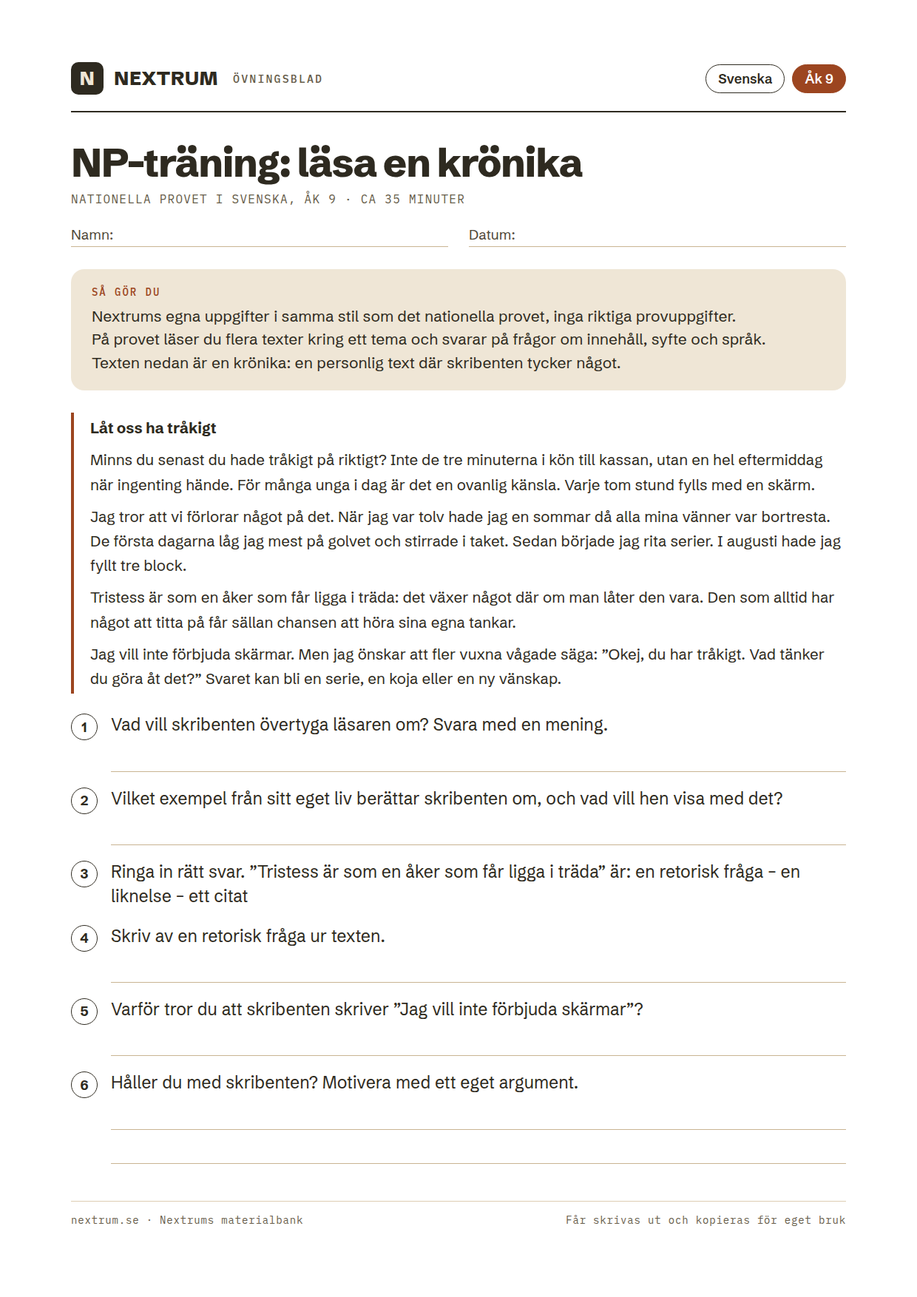
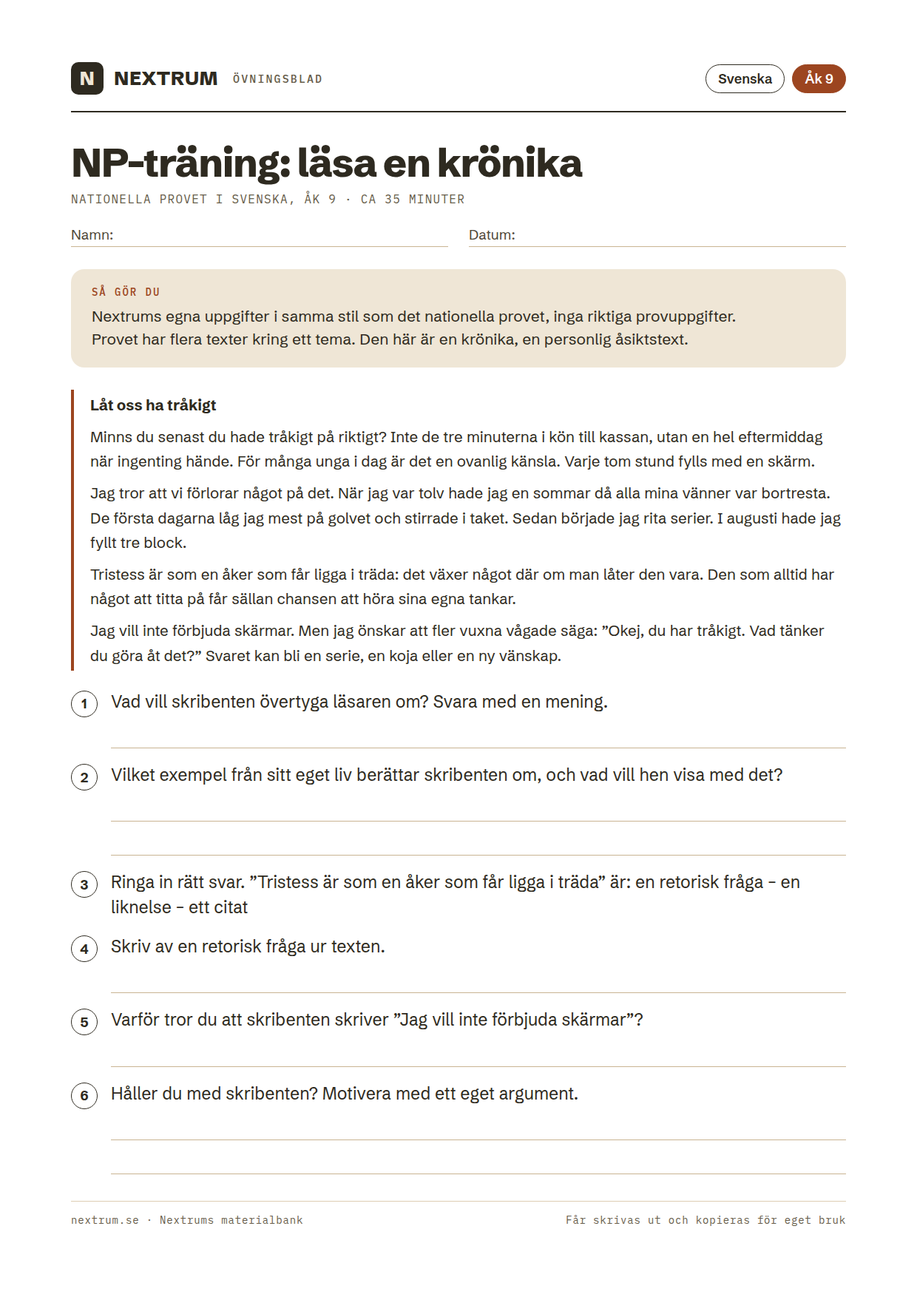
Fas 15.7: granskningen rättar NP-träningen
Ingen granskare hittade fel facit. Rättat:

- Påståenden om proven: formelbladet får användas på alla delar i
  matematik nivå 1 och 2, skrivdelen i svenska åk 6 är två texter
  (berättelse och faktatext), och i engelska åk 9 skriver man en text
  utifrån en uppgift med inspiration, inte genom att välja ämne.
- Svarsplats: en bred svarsruta, [[]], för längre svar (x(x − 6),
  4a − 3, 19.20), utveckling av kvadrater på egen rad, och fler
  skrivrader där en fråga har två led eller ber om ett stycke.
- Otydligt: cyklisterna startar samtidigt, förändringsfaktorn gäller
  per år. Två nivåmärken sänks från A till C.
- Språk: svenska citattecken, fler insekter, idiomatisk engelska, och
  flervalsfrågor och läsfrågor som kräver att man läst texten.
- Den påhittade dagboken från våren 1945 stämmer med att beskedet om
  freden kom på eftermiddagen.
- Titlar som bröts på två rader kortas, så att skrivraderna får plats.

Inga andra bilder än NP-bladens ändras. Migrationen är omskriven efter
de nya titlarna.

Claude-Session: https://claude.ai/code/session_011LBvXSaptKobfKq6P5G3d3

Changed region(s): [[0.0613, 0.2463, 0.9194, 0.7389], [0.0613, 0.7697, 0.7048, 0.8005], [0.0613, 0.8312, 0.6435, 0.862]]

diff --git a/verktyg/bladen/gymnasiet.py b/verktyg/bladen/gymnasiet.py
@@ -328,12 +328,12 @@ BLAD = [
     # Egna uppgifter i samma stil som de nationella proven, aldrig provens egna. Med Gy25 finns prov i
     # matematik nivå 1 och 2, svenska nivå 1 och 3 och engelska nivå 1 och 2.
     dict(fil='gy1-np-matematik-niva-1-utan-digitala-verktyg', arskurs='gy1', amne='Matematik',
-         titel='NP-träning: matematik nivå 1 utan digitala verktyg', omrade='Nationella provet i matematik nivå 1', tid='40 minuter',
+         titel='NP-träning: matematik 1 utan räknare', omrade='Nationella provet i matematik nivå 1', tid='40 minuter',
          instruktion=['Nextrums egna uppgifter i samma stil som det nationella provet, inga riktiga provuppgifter.',
-                      'Provet har delar utan digitala verktyg, där du skriver svaret eller redovisar kort, och delar med räknare och formelblad. Det här bladet är utan.',
+                      'Provet har delar utan digitala verktyg, där du skriver svaret eller redovisar kort, och delar med digitala verktyg. Formelbladet får användas på alla delar. Det här bladet är utan digitala verktyg.',
                       'Märket efter uppgiften visar vilken nivå den tränar: E, C eller A.'],
-         uppgifter=[('a) 2,4 · 0,5 = []    b) Skriv 0,035 i procentform: [] {E}', 0),
-                    ('Förenkla (2x + 3) − (x − 4). [] {E}', 0),
+         uppgifter=[('a) 2,4 · 0,5 = []    b) Skriv 0,035 i procentform: [[]] {E}', 0),
+                    ('Förenkla (2x + 3) − (x − 4). [[]] {E}', 0),
                     ('Lös ekvationen 3(x − 2) = 12. x = [] {E}', 0),
                     ('Beräkna 10⁻² · 10⁵. [] {E}', 0),
                     ('Bestäm f(−2) om f(x) = 3x² − 1. [] {C}', 0),
@@ -346,7 +346,7 @@ BLAD = [
          beskrivning='Träning inför nationella provet i matematik nivå 1 utan digitala verktyg: räkning, algebra, funktioner och procent på nivåerna E, C och A.'),
 
     dict(fil='gy1-np-matematik-niva-1-med-digitala-verktyg', arskurs='gy1', amne='Matematik',
-         titel='NP-träning: matematik nivå 1 med digitala verktyg', omrade='Nationella provet i matematik nivå 1', tid='45 minuter',
+         titel='NP-träning: matematik 1 med räknare', omrade='Nationella provet i matematik nivå 1', tid='45 minuter',
          instruktion=['Nextrums egna uppgifter i samma stil som det nationella provet, inga riktiga provuppgifter.',
                       'Redovisa dina lösningar så att någon annan kan följa dem. Du får använda räknare.',
                       'Märket efter uppgiften visar vilken nivå den tränar: E, C eller A.'],
@@ -357,14 +357,13 @@ BLAD = [
                      tabell(['Tid (min)', '5', '10', '20', '30'], [['Sträcka (km)', '1,2', '2,4', '4,8', '7,2']], bredd_kol=90)),
                     ('En klass säljer kakor. De har fasta kostnader på 450 kr, varje kaka kostar 4 kr att baka och säljs för 15 kr. '
                      'Hur många kakor måste de sälja för att gå med vinst? {C}', 2),
-                    ('Lös ekvationen 1,05ˣ = 2 grafiskt eller genom att pröva. Tolka svaret om 1,05 är förändringsfaktorn för pengar på ett sparkonto. {A}', 2)],
+                    ('Lös ekvationen 1,05ˣ = 2 grafiskt eller genom att pröva. Tolka svaret om 1,05 är förändringsfaktorn per år för pengar på ett sparkonto. {A}', 2)],
          beskrivning='Träning inför nationella provet i matematik nivå 1 med digitala verktyg: förändringsfaktor, volym, procentenheter, proportionalitet och modellering.'),
 
     dict(fil='gy1-np-svenska-niva-1-lasforstaelse', arskurs='gy1', amne='Svenska',
-         titel='NP-träning: läsförståelse i svenska nivå 1', omrade='Nationella provet i svenska nivå 1', tid='40 minuter',
+         titel='NP-träning: läsförståelse, svenska 1', omrade='Nationella provet i svenska nivå 1', tid='40 minuter',
          instruktion=['Nextrums egna uppgifter i samma stil som det nationella provet, inga riktiga provuppgifter.',
-                      'Provet i svenska nivå 1 har en del i läsförståelse där du läser sakprosa och skönlitteratur och svarar på frågor om innehåll, syfte och språk.',
-                      'Stöd dina svar på texten.'],
+                      'På provets läsdel svarar du på frågor om innehåll, syfte och språk. Stöd svaren på texten.'],
          text=['# Varför lånar svenskan ord?',
                'Svenskan har alltid lånat ord från andra språk. Under medeltiden kom många ord från lågtyskan, eftersom tyska '
                'köpmän i Hansan handlade i svenska städer. Ord som fönster, handla och borgmästare är exempel på sådana lån. På '
@@ -377,15 +376,15 @@ BLAD = [
                'och näringsliv. Andra ser lånen som ett tecken på att språket lever och förändras. Språkforskare brukar påpeka att '
                'svenskan har tagit emot lån i över tusen år och ändå fortfarande är svenska.'],
          uppgifter=[('Varför kom många lågtyska ord in i svenskan under medeltiden?', 1),
-                    ('Vilket språk har varit den största källan till lånord under 1900-talet och fram till i dag? ___', 0),
-                    ('Förklara med egna ord vad som händer med ett lånord när det anpassas till svenskan. Ge ett eget exempel.', 1),
-                    ('Ringa in det som bäst beskriver textens syfte: att underhålla – att informera – att sälja något', 0),
+                    ('Vilket språk har gett flest lånord sedan 1900-talet? ___', 0),
+                    ('Förklara med egna ord vad som händer med ett lånord när det anpassas till svenskan. Ge ett eget exempel.', 2),
+                    ('Ringa in det som bäst beskriver textens syfte:\ninformera om hur svenskan lånar ord – argumentera mot engelska lånord – varna för att svenskan försvinner', 0),
                     ('Vilka två synsätt på engelska lånord beskrivs i texten?', 1),
                     ('Vad menar språkforskarna med att svenskan ”ändå fortfarande är svenska”?', 1)],
          beskrivning='Träning inför nationella provets läsdel i svenska nivå 1: en sakprosatext om lånord med frågor om innehåll, syfte och perspektiv.'),
 
     dict(fil='gy1-np-svenska-niva-1-skriva', arskurs='gy1', amne='Svenska',
-         titel='NP-träning: argumenterande text i svenska nivå 1', omrade='Nationella provet i svenska nivå 1', tid='50 minuter',
+         titel='NP-träning: argumentera, svenska 1', omrade='Nationella provet i svenska nivå 1', tid='50 minuter',
          instruktion=['Nextrums egna uppgifter i samma stil som det nationella provet, inga riktiga provuppgifter.',
                       'På provets skrivdel skriver du utifrån ett texthäfte. Hänvisa till källorna så att läsaren förstår vem som säger vad, '
                       'till exempel ”I en ledare i ... skriver ...”.',
@@ -405,7 +404,7 @@ BLAD = [
     dict(fil='gy1-np-engelska-niva-1-reading', arskurs='gy1', amne='Engelska',
          titel='NP-träning: reading, engelska nivå 1', omrade='Nationella provet i engelska nivå 1', tid='40 minuter',
          instruktion=['Nextrums egna uppgifter i samma stil som det nationella provet, inga riktiga provuppgifter.',
-                      "In the reading part you read different kinds of texts and answer questions about main ideas, details and the writer's attitude. Answer in English, in full sentences."],
+                      "In the reading part you answer questions about main ideas, details and the writer's attitude. Use full sentences, except where you are asked for one word."],
          text=['# Science in your back garden',
                'Every winter, hundreds of thousands of people across the UK spend one hour looking out of their windows. They are '
                'not bored; they are doing science. The Big Garden Birdwatch, organised by the bird charity RSPB since 1979, asks '
@@ -437,12 +436,13 @@ BLAD = [
          beskrivning='Träning inför nationella provets skrivdel i engelska nivå 1: planera och skriva en argumenterande text om volontärarbete.'),
 
     dict(fil='gy2-np-matematik-niva-2-utan-digitala-verktyg', arskurs='gy2', amne='Matematik',
-         titel='NP-träning: matematik nivå 2 utan digitala verktyg', omrade='Nationella provet i matematik nivå 2', tid='40 minuter',
+         titel='NP-träning: matematik 2 utan räknare', omrade='Nationella provet i matematik nivå 2', tid='40 minuter',
          instruktion=['Nextrums egna uppgifter i samma stil som det nationella provet, inga riktiga provuppgifter.',
-                      'Provet har delar utan digitala verktyg och delar med räknare och formelblad. Det här bladet är utan.',
+                      'Provet har delar utan och med digitala verktyg, och formelbladet får användas på alla delar. Det här bladet är utan digitala verktyg.',
                       'Märket efter uppgiften visar vilken nivå den tränar: E, C eller A.'],
-         uppgifter=[('a) Lös x² − 9 = 0: []    b) Utveckla (x + 5)²: [] {E}', 0),
-                    ('Faktorisera x² − 6x. [] {E}', 0),
+         uppgifter=[('Lös ekvationen x² − 9 = 0. x = [[]] {E}', 0),
+                    ('Utveckla (x + 5)². {E}', 1),
+                    ('Faktorisera x² − 6x. [[]] {E}', 0),
                     ('Beräkna lg 1000 + lg 0,1. [] {E}', 0),
                     ('Lös ekvationen x² + 2x − 8 = 0. {E}', 1),
                     ('Lös ekvationssystemet y = 2x − 1 och y = −x + 5. {E}', 1),
@@ -452,7 +452,7 @@ BLAD = [
          beskrivning='Träning inför nationella provet i matematik nivå 2 utan digitala verktyg: andragradsekvationer, kvadreringsregler, logaritmer, ekvationssystem och bevis.'),
 
     dict(fil='gy2-np-matematik-niva-2-med-digitala-verktyg', arskurs='gy2', amne='Matematik',
-         titel='NP-träning: matematik nivå 2 med digitala verktyg', omrade='Nationella provet i matematik nivå 2', tid='45 minuter',
+         titel='NP-träning: matematik 2 med räknare', omrade='Nationella provet i matematik nivå 2', tid='45 minuter',
          instruktion=['Nextrums egna uppgifter i samma stil som det nationella provet, inga riktiga provuppgifter.',
                       'Redovisa dina lösningar så att någon annan kan följa dem. Du får använda räknare.',
                       'Märket efter uppgiften visar vilken nivå den tränar: E, C eller A.'],
@@ -469,25 +469,22 @@ BLAD = [
     dict(fil='gy2-np-engelska-niva-2-reading', arskurs='gy2', amne='Engelska',
          titel='NP-träning: reading, engelska nivå 2', omrade='Nationella provet i engelska nivå 2', tid='40 minuter',
          instruktion=['Nextrums egna uppgifter i samma stil som det nationella provet, inga riktiga provuppgifter.',
-                      'In the reading part you show that you understand both what a text says and how it says it: main ideas, details, tone and structure.',
-                      'Answer in English, in full sentences.'],
+                      'Show that you understand what the text says and how. Use full sentences, except for one-word answers.'],
          text=['# Tomorrow, I promise',
                'Almost everyone knows the feeling. An essay is due on Friday, and on Thursday evening you find yourself reorganising '
-               'your bookshelf, watching videos about bridge construction, or suddenly deciding that your room needs a deep clean. '
+               'your bookshelf or suddenly deciding that your room needs a deep clean. '
                'You are not lazy: you are procrastinating.',
-               'For a long time, procrastination was seen as a problem of time management. If people only planned better, the '
-               'thinking went, they would get things done. Many psychologists now describe it differently. Procrastination, they '
+               'For a long time, procrastination was seen as a problem of time management. Many psychologists now describe it differently. Procrastination, they '
                'argue, is mainly about managing feelings. We put off tasks that make us feel bored, anxious or insecure, and reach '
                'for something that makes us feel better right now. The relief is real, but short-lived; the task, and the stress, are still waiting.',
-               'This explains why buying a new planner rarely helps. More useful strategies target the feeling itself: breaking a task '
-               'into steps so small that they seem almost silly, starting with just five minutes, or forgiving yourself for last time '
-               'instead of adding guilt to the pile.',
+               'This explains why buying a new planner rarely helps. More useful strategies target the feeling itself, for example '
+               'breaking a task into tiny steps or starting with just five minutes.',
                'None of this means that every delay is harmful. Letting an idea rest can improve it. The problem begins when putting '
                'things off becomes a habit that costs us sleep, grades or peace of mind.'],
-         uppgifter=[('How was procrastination explained in the past, and how do many psychologists explain it now?', 1),
+         uppgifter=[('How was procrastination explained in the past, and how do many psychologists explain it now?', 2),
                     ('Why, according to the writer, does buying a new planner rarely help?', 1),
                     ('What does the word "short-lived" mean? ___', 0),
-                    ('How does the final paragraph change the perspective of the text?', 1),
+                    ('How does the final paragraph change the perspective of the text?', 2),
                     ('Describe the tone of the first paragraph and give an example that supports your answer.', 1)],
          beskrivning='Träning inför nationella provets läsdel i engelska nivå 2: en essä om att skjuta upp saker, med frågor om innehåll, ton och struktur.'),
 
@@ -504,7 +501,7 @@ BLAD = [
          beskrivning='Träning inför nationella provets skrivdel i engelska nivå 2: en diskuterande text om ett kontantlöst samhälle.'),
 
     dict(fil='gy3-np-svenska-niva-3-utredande-text', arskurs='gy3', amne='Svenska',
-         titel='NP-träning: utredande text i svenska nivå 3', omrade='Nationella provet i svenska kurs 3 och nivå 3', tid='60 minuter',
+         titel='NP-träning: utredande text, svenska 3', omrade='Nationella provet i svenska kurs 3 och nivå 3', tid='60 minuter',
          instruktion=['Nextrums egna uppgifter i samma stil som det nationella provet, inga riktiga provuppgifter.',
                       'På provet skriver du en utredande text utifrån ett texthäfte: du ställer en fråga, redogör för olika perspektiv '
                       'med korrekt källhänvisning och drar en egen slutsats.',
@@ -518,7 +515,7 @@ BLAD = [
                     ('Sammanfatta vad källa 1 säger, med egna ord och med hänvisning till källan.', 2),
                     ('Sammanfatta vad källa 2 säger på samma sätt.', 2),
                     ('Jämför källorna: på vilket sätt är de oense, och kan båda ha rätt?', 2),
-                    ('Skriv en slutsats som svarar på din frågeställning.', 1),
+                    ('Skriv en slutsats som svarar på din frågeställning.', 3),
                     ('Skriv hela texten med inledning, avhandling och avslutning på ett eget papper eller på datorn.', 0)],
          beskrivning='Träning inför nationella provets skrivdel i svenska nivå 3: utredande text utifrån två källor, med frågeställning, källhänvisning och slutsats.'),
 ]

diff --git a/verktyg/bladen/hogstadiet.py b/verktyg/bladen/hogstadiet.py
@@ -390,10 +390,10 @@ BLAD = [
                     ('4² − 3 · 2 = [] {E}', 0), ('Hur mycket är 20 % av 450? [] {E}', 0),
                     ('Lös ekvationen 5x + 4 = 29. x = [] {E}', 0),
                     ('Uppskatta 39,8 · 5,1 med huvudräkning. Förklara hur du gjorde. {E}', 1),
-                    ('Förenkla 3(2a − 1) − 2a. [] {C}', 0),
-                    ('Vilket tal är störst, 0,07 · 10³ eller 7 · 10⁻¹? [] {C}', 0),
+                    ('Förenkla 3(2a − 1) − 2a. [[]] {C}', 0),
+                    ('Vilket tal är störst, 0,07 · 10³ eller 7 · 10⁻¹? [[]] {C}', 0),
                     ('En rät linje går genom punkterna (0, −2) och (3, 4). Vilken lutning har linjen? [] {C}', 0),
-                    ('För vilka heltal x från 0 till 10 är 2x − 3 större än 7? {A}', 1),
+                    ('För vilka heltal x från 0 till 10 är 2x − 3 större än 7? {C}', 1),
                     ('Visa att summan av tre heltal som följer på varandra alltid är delbar med 3. {A}', 2)],
          beskrivning='Träning inför nationella provet i matematik åk 9, utan miniräknare: räkning, algebra, funktioner och bevis på nivåerna E, C och A.'),
 
@@ -408,17 +408,16 @@ BLAD = [
                     ('Ett rätvinkligt segel har kateterna 3,0 m och 4,5 m. Hur lång är den längsta sidan? {C}', 1),
                     ('Sannolikheten för regn är 0,3 på lördag och 0,4 på söndag, och dagarna påverkar inte varandra. '
                      'Hur stor är sannolikheten att det regnar båda dagarna? {C}', 1),
-                    ('Hur stor är sannolikheten att det inte regnar någon av dagarna? {A}', 1),
+                    ('Hur stor är sannolikheten att det inte regnar någon av dagarna? {C}', 1),
                     ('En kommun har 24 000 invånare och ökar med 1,5 % per år. Hur många invånare har den efter 10 år om ökningen fortsätter? {A}', 1),
                     ('Elin och Max cyklar mot varandra från två orter som ligger 27 km isär. Elin cyklar 15 km/h och Max 12 km/h. '
-                     'Efter hur lång tid möts de? {A}', 2)],
+                     'De startar samtidigt. Efter hur lång tid möts de? {A}', 2)],
          beskrivning='Träning inför nationella provet i matematik åk 9 med miniräknare: procent, proportionalitet, Pythagoras sats, sannolikhet och problemlösning.'),
 
     dict(fil='ak9-np-svenska-lasa', arskurs='ak9', amne='Svenska',
          titel='NP-träning: läsa en krönika', omrade='Nationella provet i svenska, åk 9', tid='35 minuter',
          instruktion=['Nextrums egna uppgifter i samma stil som det nationella provet, inga riktiga provuppgifter.',
-                      'På provet läser du flera texter kring ett tema och svarar på frågor om innehåll, syfte och språk.',
-                      'Texten nedan är en krönika: en personlig text där skribenten tycker något.'],
+                      'Provet har flera texter kring ett tema. Den här är en krönika, en personlig åsiktstext.'],
          text=['# Låt oss ha tråkigt',
                'Minns du senast du hade tråkigt på riktigt? Inte de tre minuterna i kön till kassan, utan en hel eftermiddag '
                'när ingenting hände. För många unga i dag är det en ovanlig känsla. Varje tom stund fylls med en skärm.',
@@ -429,7 +428,7 @@ BLAD = [
                'Jag vill inte förbjuda skärmar. Men jag önskar att fler vuxna vågade säga: ”Okej, du har tråkigt. Vad tänker du '
                'göra åt det?” Svaret kan bli en serie, en koja eller en ny vänskap.'],
          uppgifter=[('Vad vill skribenten övertyga läsaren om? Svara med en mening.', 1),
-                    ('Vilket exempel från sitt eget liv berättar skribenten om, och vad vill hen visa med det?', 1),
+                    ('Vilket exempel från sitt eget liv berättar skribenten om, och vad vill hen visa med det?', 2),
                     ('Ringa in rätt svar. ”Tristess är som en åker som får ligga i träda” är: en retorisk fråga – en liknelse – ett citat', 0),
                     ('Skriv av en retorisk fråga ur texten.', 1),
                     ('Varför tror du att skribenten skriver ”Jag vill inte förbjuda skärmar”?', 1),
@@ -437,7 +436,7 @@ BLAD = [
          beskrivning='Träning inför nationella provets läsdel i svenska åk 9: en krönika med frågor om tes, exempel, stilmedel och syfte.'),
 
     dict(fil='ak9-np-svenska-skriva', arskurs='ak9', amne='Svenska',
-         titel='NP-träning: skriva en argumenterande text', omrade='Nationella provet i svenska, åk 9', tid='45 minuter',
+         titel='NP-träning: argumenterande text', omrade='Nationella provet i svenska, åk 9', tid='45 minuter',
          instruktion=['Nextrums egna uppgifter i samma stil som det nationella provet, inga riktiga provuppgifter.',
                       'På provet skriver du utifrån ett tema och ibland ett underlag. Använder du underlaget ska du tala om varifrån '
                       'uppgifterna kommer, till exempel ”Enligt Amir ...”.',
@@ -455,22 +454,21 @@ BLAD = [
     dict(fil='ak9-np-engelska-lasa', arskurs='ak9', amne='Engelska',
          titel='NP-träning: läsa på engelska', omrade='Nationella provet i engelska, åk 9', tid='35 minuter',
          instruktion=['Nextrums egna uppgifter i samma stil som det nationella provet, inga riktiga provuppgifter.',
-                      'På provet läser du texter av olika slag och svarar på frågor om innehåll, detaljer och vad texten antyder.',
-                      'Answer the questions in English.'],
+                      'På provet svarar du på frågor om innehåll, detaljer och vad texten antyder. Answer the questions in English.'],
          text=['# The Library of Things',
-               "When Maya Patel needed a drill to put up a shelf, she didn't buy one. She borrowed it from her local Library of "
+               "When Maya Patel needed a drill to put up a shelf, she didn't buy one. She borrowed one from her local Library of "
                "Things, a small shop in her neighbourhood where people borrow objects instead of books.",
                '"A drill spends most of its life in a drawer," says Tom, one of the volunteers. "It makes more sense to share it." '
                'The library lends everything from tents and sewing machines to board games and party speakers. Members pay a '
                'small fee each time they borrow something.',
                'The idea has spread to many cities in Europe. Supporters say it saves money, reduces waste and helps neighbours '
                'get to know each other. However, not everyone is convinced. Some shop owners worry that they will sell less, and '
-               'some members admit that it can be annoying when the thing you want is already borrowed.'],
+               'some members admit that it can be annoying when the thing you want has already been borrowed.'],
          uppgifter=[('What is a Library of Things?', 1),
-                    ('Name three things you can borrow there. ___, ___, ___', 0),
+                    ('Name two things you can borrow there. ___ and ___', 0),
                     ('Circle the right answer. Members ... pay nothing – pay a small fee each time – buy the things they borrow', 0),
-                    ('Why does Tom think it makes sense to share a drill?', 1),
-                    ('Give two arguments for the idea and one argument against it, according to the text.', 1),
+                    ('What does Tom mean when he says that a drill "spends most of its life in a drawer"?', 1),
+                    ('Give one argument for the idea and one against it, according to the text.', 2),
                     ('What does the word "convinced" mean in the text? ___', 0),
                     ('Would you use a Library of Things? Explain why or why not.', 1)],
          beskrivning='Träning inför nationella provets läsdel i engelska åk 9: en artikel om att låna saker i stället för att köpa.'),
@@ -478,7 +476,7 @@ BLAD = [
     dict(fil='ak9-np-engelska-skriva', arskurs='ak9', amne='Engelska',
          titel='NP-träning: skriva på engelska', omrade='Nationella provet i engelska, åk 9', tid='45 minuter',
          instruktion=['Nextrums egna uppgifter i samma stil som det nationella provet, inga riktiga provuppgifter.',
-                      'På provet väljer du ofta mellan två ämnen. Texten bedöms efter innehåll, struktur och språk: hur tydligt och varierat du skriver.',
+                      'På provet skriver du en sammanhängande text utifrån en uppgift, ofta med inspiration som citat, bilder eller förslag på vad du kan ta upp. Här får du välja mellan två ämnen.',
                       'Useful linking words: first of all, however, for example, because, on the other hand, in conclusion.'],
          uppgifter=[('Välj ett ämne och ringa in det.\nA) A place I would like to visit, and why.\n'
                      'B) Should students be allowed to use their phones during breaks?', 0),
@@ -507,17 +505,17 @@ BLAD = [
     dict(fil='ak9-np-so-kallor-och-samband', arskurs='ak9', amne='SO / Historia / Samhällskunskap',
          titel='NP-träning: SO – källor och samband', omrade='Nationella proven i SO-ämnena, åk 9', tid='40 minuter',
          instruktion=['Nextrums egna uppgifter i samma stil som det nationella provet, inga riktiga provuppgifter.',
-                      'På provet i geografi, historia, religionskunskap eller samhällskunskap använder du begrepp, förklarar orsaker och konsekvenser och granskar källor.',
+                      'På provet i SO-ämnena använder du begrepp, förklarar orsaker och konsekvenser och granskar källor.',
                       'Märket efter uppgiften visar vilken nivå den tränar: E, C eller A.'],
          text=['Påhittad källa för övningen, en dagbokssida som en fjortonårig flicka i Stockholm skulle kunna ha skrivit våren 1945: '
-               '”I dag ringde kyrkklockorna hela förmiddagen. Pappa kom hem från jobbet mitt på dagen och sa att kriget i Europa är slut. '
+               '”I dag på eftermiddagen ringde kyrkklockorna. Pappa kom hem tidigt från jobbet och sa att kriget i Europa är slut. '
                'På Kungsträdgården var det så mycket folk att vi inte kom fram. Mamma grät, fast hon var glad. Jag tänker på kusinerna '
                'i Norge. Nu kanske vi får träffa dem i sommar.”'],
          uppgifter=[('Om källan vore äkta, skulle den då vara en primärkälla eller en sekundärkälla? Motivera. {E}', 1),
                     ('Vad kan en historiker lära sig om våren 1945 av en sådan källa? {E}', 1),
                     ('Vad kan källan inte berätta? Tänk på vem som skrev den. {C}', 1),
                     ('Varför kan två personer som var med om samma händelse beskriva den olika? Ge ett exempel. {A}', 2),
-                    ('Geografi: förklara två orsaker till att allt fler människor i världen flyttar till städer, och en konsekvens det får. {C}', 1),
+                    ('Geografi: förklara en orsak till att allt fler människor i världen flyttar till städer, och en konsekvens det får. {C}', 2),
                     ('Samhällskunskap: vad innebär det att Sverige är en rättsstat? Ge ett exempel. {E}', 1),
                     ('Religionskunskap: ge ett exempel på hur en religion kan påverka människors vardag, till exempel mat, högtider eller klädsel. {E}', 1)],
          beskrivning='Träning inför nationella proven i SO åk 9: källkritik med en påhittad källa, orsaker och konsekvenser, rättsstaten och religion i vardagen.'),

diff --git a/verktyg/bladen/mellanstadiet.py b/verktyg/bladen/mellanstadiet.py
@@ -283,7 +283,7 @@ BLAD = [
                       'Märket efter uppgiften visar vilken nivå den tränar: E, C eller A.'],
          uppgifter=[('a) 305 − 48 = []    b) 6 · 70 = []    c) 0,6 + 0,25 = [] {E}', 0),
                     ('Skriv 3/4 i decimalform. [] {E}', 0), ('Hur mycket är 10 % av 90 kr? [] kr {E}', 0),
-                    ('En film börjar 17.45 och är 1 timme och 35 minuter lång. När slutar den? [] {E}', 0),
+                    ('En film börjar 17.45 och är 1 timme och 35 minuter lång. När slutar den? [[]] {E}', 0),
                     ('Vilket tal ligger mitt emellan 1,4 och 1,8? [] {C}', 0),
                     ('Vilket tal ska stå i rutan? 4 · [] + 3 = 31 {C}', 0),
                     ('Skriv talen i storleksordning, minst först: 0,5; 2/5; 0,45 {C}', 1),
@@ -304,7 +304,7 @@ BLAD = [
                     ('En femte elev läste också under sommaren. Hur många böcker måste hon ha läst för att medelvärdet för alla fem ska bli 5? {C}', 1),
                     ('Saga och Theo delar på 120 kr så att Saga får 30 kr mer än Theo. Hur mycket får var och en? {C}', 2),
                     ('En tröja kostar 250 kr. I en butik sänks priset med 20 %, och i en annan med 45 kr. I vilken butik blir tröjan billigast? Visa hur du vet. {C}', 1),
-                    ('Lisa säger: "Om man gör sidorna i en kvadrat dubbelt så långa blir arean dubbelt så stor." Har hon rätt? Förklara med ett exempel. {A}', 2)],
+                    ('Lisa säger: ”Om man gör sidorna i en kvadrat dubbelt så långa blir arean dubbelt så stor.” Har hon rätt? Förklara med ett exempel. {A}', 2)],
          beskrivning='Träning inför nationella provet i matematik åk 6 med miniräknare: problemlösning, medelvärde, skala och resonemang på nivåerna E, C och A.'),
 
     dict(fil='ak6-np-svenska-lasa', arskurs='ak6', amne='Svenska',
@@ -324,8 +324,8 @@ BLAD = [
          uppgifter=[('Vad äter ladusvalan? ___', 0),
                     ('Var bygger ladusvalan sitt bo på sommaren? ___', 0),
                     ('Varför flyttar ladusvalan söderut på hösten?', 1),
-                    ('Ringa in rätt svar. Ordet "kluven" i texten betyder ungefär: lång – delad i två delar – färgglad', 0),
-                    ('Varför tror du att det finns mer insekter där det finns kor och hästar?', 2),
+                    ('Ringa in rätt svar. Ordet ”kluven” i texten betyder ungefär: lång – delad i två delar – färgglad', 0),
+                    ('Varför tror du att det finns fler insekter där det finns kor och hästar?', 2),
                     ('Texten är en faktatext. Skriv två saker som visar det.', 2),
                     ('Om du fick fråga en fågelforskare en sak om ladusvalan, vad skulle du fråga?', 1)],
          beskrivning='Träning inför nationella provets läsdel i svenska åk 6: en faktatext om ladusvalan med frågor på olika nivåer.'),
@@ -333,9 +333,9 @@ BLAD = [
     dict(fil='ak6-np-svenska-skriva', arskurs='ak6', amne='Svenska',
          titel='NP-träning: skriva en berättelse', omrade='Nationella provet i svenska, åk 6', tid='45 minuter',
          instruktion=['Nextrums egna uppgifter i samma stil som det nationella provet, inga riktiga provuppgifter.',
-                      'På provet skriver du en egen text. Den bedöms efter innehållet, hur den är uppbyggd och hur du använder språket.',
+                      'På provet skriver du två texter, en berättelse och en faktatext. De bedöms efter innehåll, uppbyggnad, språk och skrivregler. Det här bladet tränar berättelsen.',
                       'En berättelse har en början, något som händer och driver handlingen framåt, och ett slut.'],
-         uppgifter=[('Din berättelse ska börja med meningen: "När jag öppnade dörren till vinden förstod jag att något hade hänt." '
+         uppgifter=[('Din berättelse ska börja med meningen: ”När jag öppnade dörren till vinden förstod jag att något hade hänt.” '
                      'Planera först: vem är med, var händer det och vad är problemet?', 3),
                     ('Hur slutar berättelsen? Skriv några stödord.', 1),
                     ('Skriv berättelsen. Fortsätt på ett eget papper om raderna inte räcker.', 8),
@@ -371,7 +371,7 @@ BLAD = [
                       'Användbara fraser: My name is ... I live in ... In my free time I ... My favourite ... is ... What about you?'],
          uppgifter=[('Du har fått en brevvän i England. Skriv ett mejl där du berättar om dig själv, din familj, en fritidsaktivitet och din skola. '
                      'Avsluta med en fråga till brevvännen. Planera först: skriv stödord för varje del.', 3),
-                    ('Skriv mejlet på engelska. Börja med Hi ... och avsluta med en hälsning.', 9),
+                    ('Skriv mejlet på engelska. Börja med Hi ... och avsluta med en hälsning. Fortsätt på ett eget papper om raderna inte räcker.', 11),
                     ('Läs igenom: har du använt and, but och because minst en gång var? Ringa in dem.', 0)],
          beskrivning='Träning inför nationella provets skrivdel i engelska åk 6: planera och skriva ett mejl till en brevvän.'),
 ]

diff --git a/verktyg/bygg-banken.py b/verktyg/bygg-banken.py
@@ -75,7 +75,7 @@ AMNEN = ['Matematik', 'Svenska', 'Engelska', 'NO / Fysik / Kemi / Biologi',
 #   text     (valfri)  en läsetext, str eller lista med stycken, ovanför uppgifterna; ett stycke som börjar med '# ' blir en rubrik
 #   chip     (valfri)  vad ämnesbrickan säger; annars ämnets första del ("NO", "SO")
 # En uppgift är (text, extra) eller (text, extra, figur):
-#   [] blir en svarsruta, ___ en skrivrad i texten, \n en radbrytning (en mening per rad när flera luckor ska fyllas)
+#   [] blir en svarsruta och [[]] en bred svarsruta för ett längre svar, ___ en skrivrad i texten, \n en radbrytning (en mening per rad när flera luckor ska fyllas)
 #   {E}, {C} och {A} blir ett nivåmärke, som på de nationella proven
 #   extra = antal tomma skrivrader under uppgiften, eller 'ruta' för en större ruta att rita i
 #   figur = en HTML- eller SVG-sträng, oftast ur verktyg/bladen/figurer.py
@@ -141,8 +141,10 @@ def blad_id(b):
 
 
 def fyll(text):
-    """[] blir en ruta, ___ en skrivrad, radbrytning en ny rad och {E}, {C} och {A} ett nivåmärke. Allt annat escapas."""
+    """[] blir en ruta, [[]] en bred ruta, ___ en skrivrad, radbrytning en ny rad och {E}, {C} och {A} ett nivåmärke.
+    Allt annat escapas."""
     ut = html.escape(text)
+    ut = ut.replace('[[]]', '<span class="ruta bred"></span>')
     ut = ut.replace('[]', '<span class="ruta"></span>').replace('\n', '<br>')
     for niva in ('E', 'C', 'A'):
         ut = ut.replace('{%s}' % niva, '<span class="niva">%s</span>' % niva)
@@ -202,6 +204,7 @@ li{display:flex;gap:18px;align-items:flex-start}
 li div{flex:1}
 li p{font-size:23px;line-height:1.45}
 .ruta{display:inline-block;width:62px;height:40px;border:2px solid #2E2A20;border-radius:8px;vertical-align:middle;margin:0 4px}
+.ruta.bred{width:150px}
 .linje{display:inline-block;width:170px;border-bottom:2px solid #2E2A20;height:26px;vertical-align:baseline;margin:0 4px}
 .rad{height:46px;border-bottom:1.5px solid #C9B492}
 .rit{height:250px;margin-top:10px;border:1.5px dashed #C9B492;border-radius:12px;
